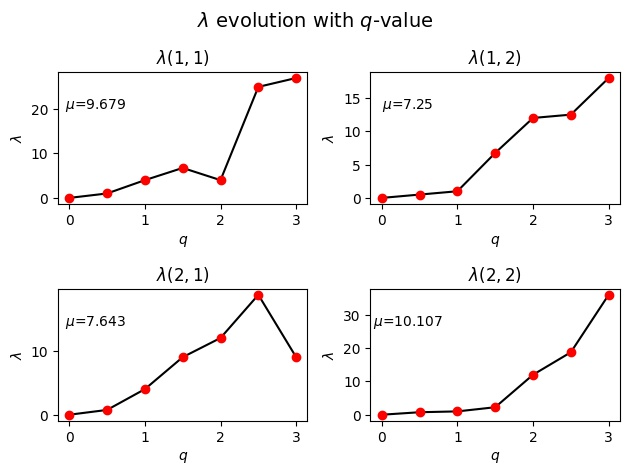
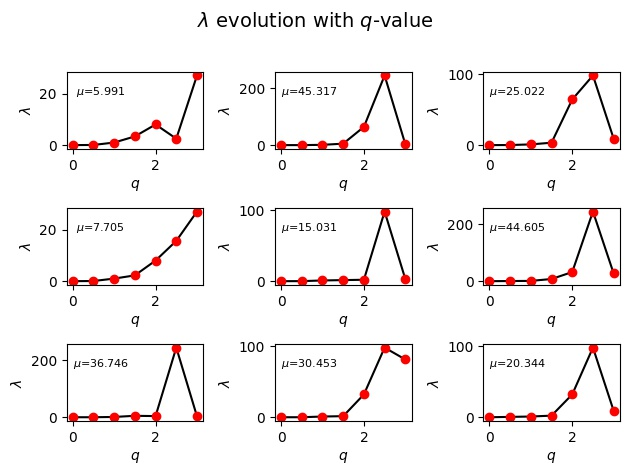
Adds diagram for data format to be used in the grid plot. grid plot now uses external data

diff --git a/Code/Python/GridPlot.py b/Code/Python/GridPlot.py
@@ -12,10 +12,10 @@ def give_array(n, param):
     return [list(x), y]
 
 
-def CreateGridPlot(n):
-    params = [1, 2, 3, 4]
-    array_dim = 10
-    data = GenerateData(2*n)
+def CreateGridPlot(n, data):
+    # params = [1, 2, 3, 4]
+    # array_dim = 10
+    # data = GenerateData(2*n)
     # data = give_array(20, rd.choice(params))
     x = data[0]
     # x = give_array(array_dim, rd.choice(params))[0]
@@ -28,12 +28,12 @@ def CreateGridPlot(n):
         for j in range(n):
             y = data[1][count]
             # y = give_array(array_dim, rd.choice(params))[1]
-            p = round(np.mean(y),3)
+            p = round(np.mean(y), 3)
             ax[i, j].plot(x, y, '-k')
             ax[i, j].plot(x, y, 'or')
-            ax[i, j].text(0.15, 0.75, f'$\mu$={p}', horizontalalignment='center',
-                          verticalalignment='center', transform=ax[i, j].transAxes)
-            ax[i, j].set_title(f'$\lambda{(i+1,j+1)}$')
+            ax[i, j].text(0.25, 0.75, f'$\mu$={p}', horizontalalignment='center',
+                          verticalalignment='center', transform=ax[i, j].transAxes,fontsize=8)
+            # ax[i, j].set_title(f'$\lambda{(i+1,j+1)}$')
             count = count+1
     for ax_id in ax.flat:
         ax_id.set(xlabel=f'$q$', ylabel=f'$\lambda$')
@@ -126,13 +126,13 @@ def CreateGridPlot(n):
 
 
 def GenerateData(n):
-    params = [1, 2, 3, 4]
+    params = [1, 2, 3, 4, 5, 6]
     # xvalues
     qvalues = np.arange(0, 3.1, 0.5)
     # yvalues
     yvalues = []
     for id in range(n):
-        y = map(lambda x: rd.choice(params)*x*x, qvalues)
+        y = map(lambda x: np.power(x, rd.choice(params)), qvalues)
         yvalues.append(list(y))
     return [list(qvalues), yvalues]
 
@@ -140,4 +140,9 @@ def GenerateData(n):
 # print(f[0])
 # for id in range(len(f[1])):
 #     print(f[1][id])
-CreateGridPlot(2)
+
+# Actual representation of the eigenvalues of H
+nplots = 3 # holds up to n^2 solutions (e.g. for n=3, the first 9 solutions can be graphically represented)
+data = GenerateData(nplots*nplots)
+
+CreateGridPlot(nplots, data)

diff --git a/README.md b/README.md
@@ -55,13 +55,19 @@ The evolution of $\lambda_5$, the fifth solution of $H(10)$ is evaluated for the
 
 ![](Reports/LambdaPlots/LambdaBosonic-5.jpeg)
 
-### Future update plan
+### Grid Plot implementation with `Py3`
 
-[ ] - Update the python implementation with a grid plot.
+This implementation is used for a graphical representation (in a batch-manner) of the eigenvalues of the boson Hamiltonian.
+
+[x] - Update the python implementation with a grid plot.
 
 An example of grid plot can be seen below. Core implementation has been done. [Source](https://matplotlib.org/3.1.1/gallery/pyplots/pyplot_scales.html#sphx-glr-gallery-pyplots-pyplot-scales-py)
 
 ![](Reports/grid_plot.jpeg)
+
+Actual grid plot implementation can be seen in [this](https://github.com/basavyr/quadraticHamiltonianDiagonalization/commit/690f76506f55a2cc54f2ec993e7c92f1b206f789) commit. The data structure to be used for importing into the plot function has the following structure:
+
+![](Reports/GridPlot_dataformat.jpg)
 
 <!-- 
 ___

diff --git a/Code/Python/Thesis.md b/Code/Python/Thesis.md
@@ -1,0 +1,7 @@
+# Theoretical Background
+
+The concept of wobbling motion is a key feature in identifying and also understanding the deformed nuclei which exists in *stable states*.
+Nuclear stability (especially for the odd nuclei) is a rather elusive phenomenon, and a tremendous effort was devoted by experimentalists and theoreticians for a concrete overview of the underlying physics that occurs.
+
+## Nuclear structure
+
